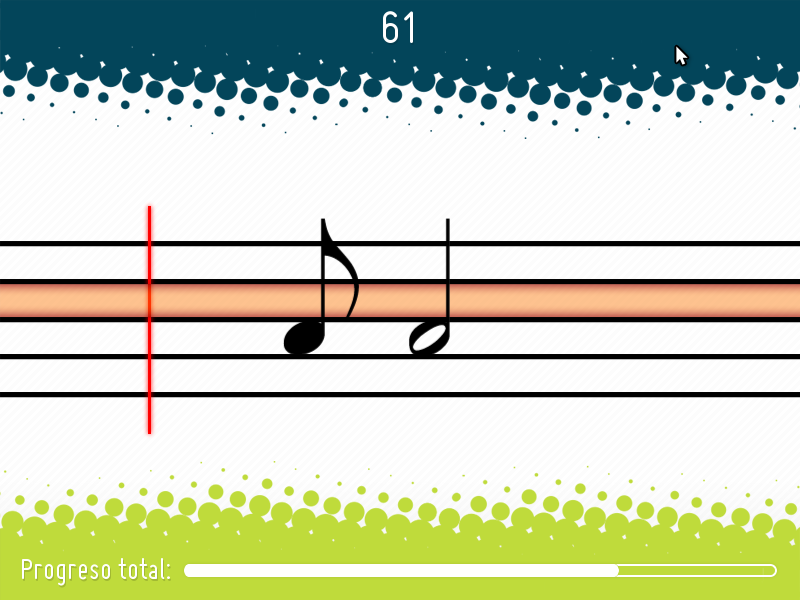
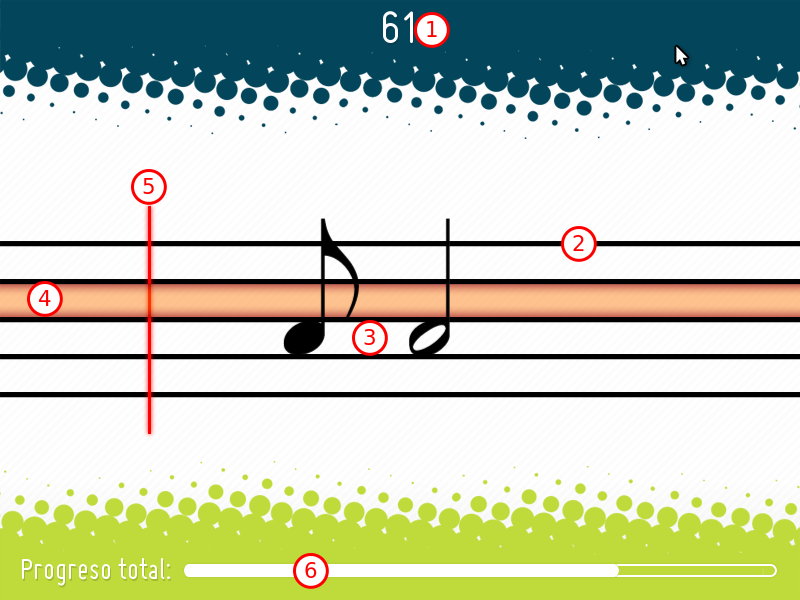
Trabajando en el manual de usuario

diff --git a/memoria/own/apendice_manual_usuario/texto_apendice_manual_usuario.tex b/memoria/own/apendice_manual_usuario/texto_apendice_manual_usuario.tex
@@ -146,6 +146,8 @@ lecciones.
   \vspace{-1cm}
 \end{figure}
 
+\pagebreak
+
 En cualquier momento podemos hacer click en el botón \textit{Volver al menú}, o
 pulsar la tecla \texttt{escape} del teclado, para ir a la sección anterior.
 
@@ -222,3 +224,85 @@ contiene numerosos elementos importantes para el jugador.
   \includegraphics[width=0.8\textwidth]{apendice_manual_usuario/imagen_seccionCanciones2}
   \caption{Pantalla de interpretación de canción}
 \end{figure}
+
+\begin{enumerate}
+\item \textbf{Marcador} de la puntuación del usuario.
+\item \textbf{Pentagrama}. Sobre él aparecerán las notas.
+\item \textbf{Notas}. Éstas irán apareciendo por el lado derecho del pentagrama,
+  y moviéndose hacia la izquierda de forma ordenada y rítmica.
+\item \textbf{Resaltado de nota}. Resalta la posición en el pentagrama de la
+  nota que está tocando el usuario con la flauta en cada momento. Esto ayuda
+  visualmente a saber si estamos interpretando la nota correcta o no.
+\item \textbf{Barra de interpretación}. Esta barra indica cuándo debe el usuario
+  empezar a tocar la nota. 
+\item \textbf{Barra de progreso}. Indica el progreso de la interpretación de la
+  canción. Cuando la barra esté completa, la canción concluirá.
+\end{enumerate}
+
+La forma de juego es sencilla. Como se ha indicado, las notas aparecerán sobre
+el pentagrama por el lado derecho, e irán desplazándose hacia la izquierda. Una
+vez que una nota llegue a la \textit{barra de interpretación}, el jugador deberá
+tocar con la flauta la nota correcta, de forma constante hasta que llegue el
+turno de la siguiente nota.
+
+Para ayudar al jugador, la barra de \textit{resaltado de nota} indicará en cada
+momento qué nota se está tocandoo. Así, si en un instante es necesario tocar un
+\textit{Sol} pero la barra de resaltado está por encima, el usuario sabrá que
+debe cerrar más orificios de la flauta.
+
+Las posibles \textbf{notas} que pueden aparecer son \textit{Do}, \textit{Re},
+\textit{Mi}, \textit{Fa}, \textit{Sol}, \textit{La}, \textit{Si}, \textit{Do
+  grave} y \textit{Re grave}. Las posibles figuras que podrán aparecer son las
+siguientes:
+
+\begin{description}
+\item[Redonda] -- Dura cuatro tiempos.
+\vspace{-0.1cm}
+\begin{figure}[h!]
+  \centering
+  \includegraphics[width=0.05\textwidth]{apendice_manual_usuario/imagen_figRedonda}
+  \caption{Figura musical -- Redonda}
+\end{figure}
+
+\vspace{-0.35cm}
+
+\item[Blanca] -- Dura dos tiempos.
+\vspace{-0.1cm}
+\begin{figure}[h!]
+  \centering
+  \subfloat[Posición normal]{\parbox{0.5\textwidth}{\centering\includegraphics[width=1cm]{apendice_manual_usuario/imagen_figBlanca}}}
+  \subfloat[Posición invertida]{\parbox{0.5\textwidth}{\centering\includegraphics[width=1cm]{apendice_manual_usuario/imagen_figBlancaInv}}}
+  \caption{Figura musical -- Blanca}
+\end{figure}
+
+\vspace{-0.35cm}
+
+\item[Negra] -- Dura un tiempo.
+\vspace{-0.1cm}
+\begin{figure}[h!]
+  \centering
+  \subfloat[Posición normal]{\parbox{0.5\textwidth}{\centering\includegraphics[width=1cm]{apendice_manual_usuario/imagen_figNegra}}}
+  \subfloat[Posición invertida]{\parbox{0.5\textwidth}{\centering\includegraphics[width=1cm]{apendice_manual_usuario/imagen_figNegraInv}}}
+  \caption{Figura musical -- Negra}
+\end{figure}
+
+\vspace{-0.35cm}
+
+\item[Corchea] -- Dura la mitad que una negra.
+\vspace{-0.1cm}
+\begin{figure}[h!]
+  \centering
+  \subfloat[Posición normal]{\parbox{0.5\textwidth}{\centering\includegraphics[width=1cm]{apendice_manual_usuario/imagen_figCorchea}}}
+  \subfloat[Posición invertida]{\parbox{0.5\textwidth}{\centering\includegraphics[width=1cm]{apendice_manual_usuario/imagen_figCorcheaInv}}}
+  \caption{Figura musical -- Corchea}
+\end{figure}
+\end{description}
+
+\vspace{-0.35cm}
+
+De manera excepcional, es posible alargar el tiempo de una figura mediante el
+uso del \textbf{puntillo}, que hará que su duración aumente la mitad de su
+tiempo original. El puntillo se representa mediante un pequeño círculo a la
+derecha de la base de la nota.
+
+Por otro lado, las siguientes son las figuras que representan los silencios

diff --git a/memoria/own/memoria.tex b/memoria/own/memoria.tex
@@ -50,6 +50,9 @@
 % Extensión para el entorno enumerate ¿?
 %\usepackage{enumerate}
 
+% Para poner figuras una al lado de otra
+\usepackage[lofdepth,lotdepth]{subfig}
+
 % Paquete para figuras giradas
 \usepackage{rotating}
 
